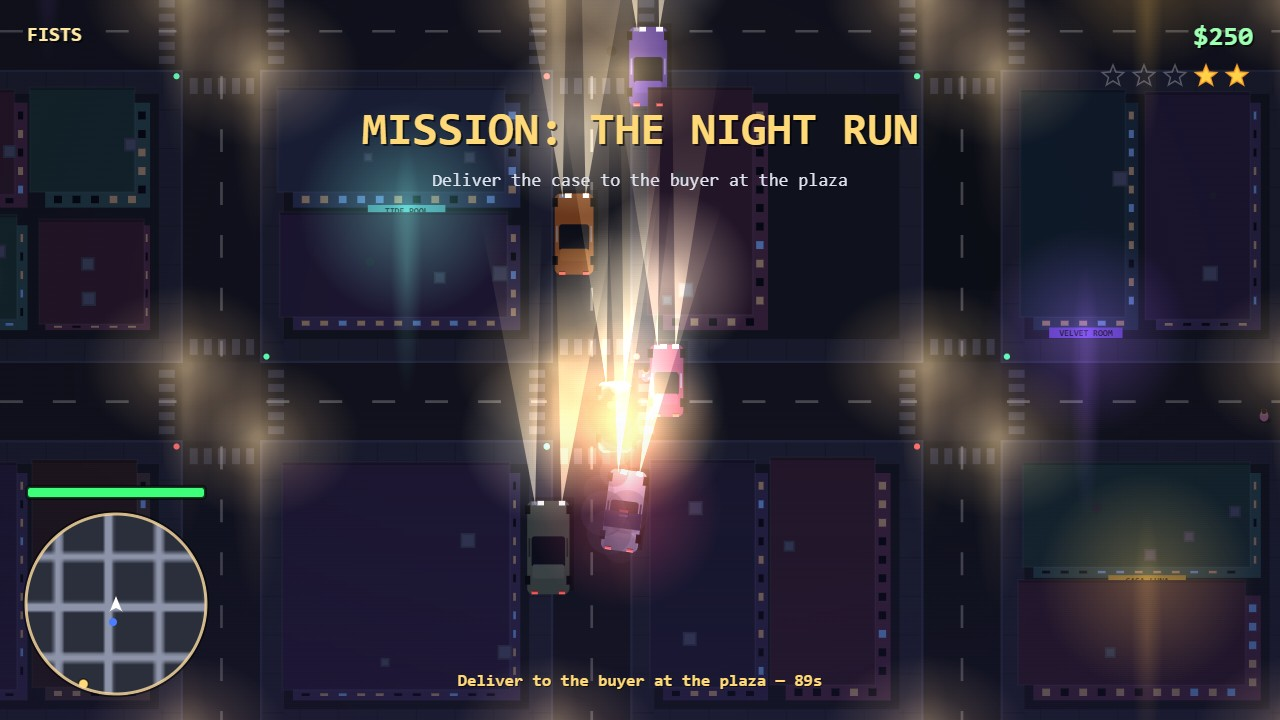
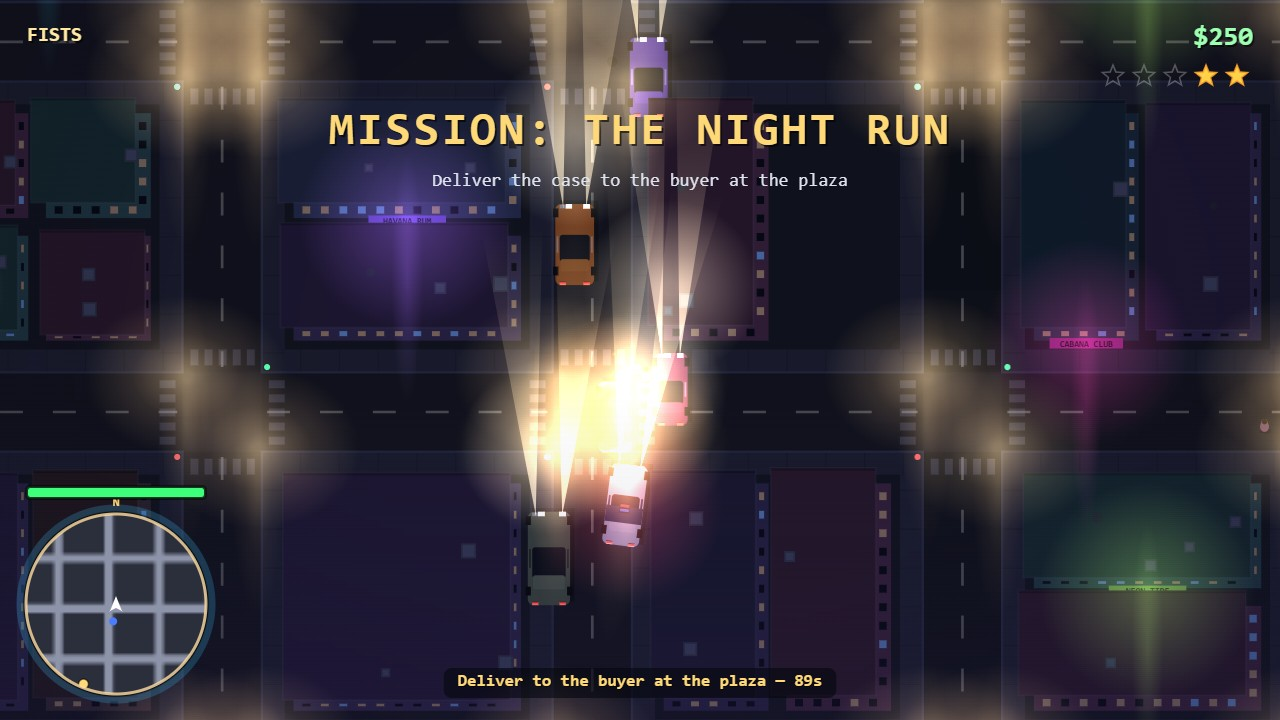
Retake 4 staged screenshots from the improved game, rewrite README for the improvement pass

diff --git a/game/src/shots.js b/game/src/shots.js
@@ -30,24 +30,31 @@ export function stageShot(name, game, ui, seed) {
       if (score > best) { best = score; bestJ = j; }
     }
     const y = (bestJ + 0.5) * PITCH;
-    ui.cameraOverride = { x: GRID * PITCH - 240, y: y - 60, zoom: 0.85 };
+    ui.cameraOverride = { x: GRID * PITCH + 80, y: y - 30, zoom: 0.78 };
     game.player.x = GRID * PITCH - 100;
     game.player.y = y + 120;
-    // Parked cars along the oceanfront road and a little traffic on the strip.
+    // Parked shoulder cars along the oceanfront road.
     for (let k = 0; k < 5; k++) {
       const v = game.spawnCar(Math.floor(rand() * 10), GRID * PITCH - (rand() < 0.5 ? 24 : -24), y - 420 + k * 210, rand() < 0.5 ? 0 : Math.PI);
       v.role = 'parked';
     }
-    for (let k = 0; k < 4; k++) {
-      const v = game.spawnCar(Math.floor(rand() * 10), GRID * PITCH - 68, y + 300 + k * 260, -Math.PI / 2);
+    // Proper lanes: two-way traffic rolling the strip, headlights burning.
+    for (let k = 0; k < 3; k++) {
+      const v = game.spawnCar(Math.floor(rand() * 10), GRID * PITCH + 22, y - 760 + k * 480, Math.PI / 2);
       v.role = 'traffic';
-      v.axis = 'y'; v.dir = -1; v.lane = GRID * PITCH - 68;
-      v.fwd = 120;
+      v.axis = 'y'; v.dir = 1; v.lane = GRID * PITCH + 22;
+      v.fwd = 130;
+    }
+    for (let k = 0; k < 3; k++) {
+      const v = game.spawnCar(Math.floor(rand() * 10), GRID * PITCH - 22, y + 240 + k * 480, -Math.PI / 2);
+      v.role = 'traffic';
+      v.axis = 'y'; v.dir = -1; v.lane = GRID * PITCH - 22;
+      v.fwd = 130;
     }
     // A patrol cruiser rolls the strip far from the camera, sirens quiet.
-    const cop = game.spawnCar(-1, GRID * PITCH - 68, y - 900, Math.PI / 2);
+    const cop = game.spawnCar(-1, GRID * PITCH + 22, y - 1400, Math.PI / 2);
     cop.role = 'traffic';
-    cop.axis = 'y'; cop.dir = 1; cop.lane = GRID * PITCH - 68; cop.cruise = 150; cop.fwd = 150;
+    cop.axis = 'y'; cop.dir = 1; cop.lane = GRID * PITCH + 22; cop.cruise = 150; cop.fwd = 150;
     // A few strollers share the sidewalk with the hero.
     for (let n = 0; n < 6; n++) {
       game.people.push(new Person(GRID * PITCH - 90 + (n % 2) * 40, y + 40 + n * 90, n * 31 + 5));
@@ -150,5 +157,10 @@ function chaosScene(game, ui) {
   for (let n = 0; n < 50; n++) game.update(1 / 60, SCRIPT);
   for (let n = 0; n < 5; n++) game.fx.fire(vans[0].x + (rand() - 0.5) * 30, vans[0].y + (rand() - 0.5) * 30, 3);
   game.fx.blast(cx - 90, cy - 110);
+  // Rico just fired on the van: a hot muzzle beat and a blast wash that the frozen
+  // frame keeps at full strength, since no further update runs to decay them.
+  game.fx.muzzle(game.player.x + Math.cos(game.player.heading) * 16, game.player.y + Math.sin(game.player.heading) * 16, game.player.heading);
+  game.fx.sparks(game.player.x + Math.cos(game.player.heading) * 60, game.player.y + Math.sin(game.player.heading) * 60, 6);
+  game.flash = 0.4;
   ui.freeze = true;
 }

diff --git a/game/src/config.js b/game/src/config.js
@@ -23,7 +23,7 @@ export const LIGHT = {
   paving: '#2f323d',
   curb: '#4b4f60',
   grass: '#1c3524',
-  sand: '#b2915e',
+  sand: '#c2a468',
   sandWet: '#6f5c40',
   water: '#0d1e31',
   foam: 'rgba(140,190,225,0.20)',

diff --git a/README.md b/README.md
@@ -19,21 +19,28 @@ node serve.ts
 then open http://localhost:8080 in desktop Chrome. Keyboard and mouse: WASD or arrows to walk or
 drive, Shift to sprint, F to enter or steal the nearest car (again to bail out), Space for the
 handbrake on wheels and punches on foot, E or left-click to shoot once a pistol is found, H for
-the horn, Esc to pause. Progress autosaves to localStorage on every mission payout and pause.
+the horn, Esc to pause. Progress autosaves to localStorage on every mission payout and pause;
+the title menu can delete a save (press twice to confirm).
 
 ## Systems
 
 - City: seeded generator — streets with two-way traffic and signals, sidewalk crowds, parks,
-  surface lots, neon signage (blades, marquees, rooftop billboards), beach and ocean.
-- Driving: arcade car physics with grip, handbrake slides, damage states (smoke, fire, blast)
-  and ten stealable models plus the police cruiser.
+  surface lots, neon signage (blades, marquees, rooftop billboards on every tall building),
+  beach and ocean.
+- Driving: arcade car physics with grip, handbrake slides that cook the rear tyres, damage
+  states (smoke, fire, blast) and ten stealable models plus the police cruiser.
 - Traffic: kinematic lane AI — gap keeping, red-light queueing, overtakes with blinkers, turns.
-- Police: five wanted stars (carjack +1, ped hit +1, shooting +2, cop kill +3), pursuit with
-  flanking, window fire at three stars, pit attempts at four, roadblocks, foot officers,
-  and a line-of-sight decay when you slip away.
+- Police: five wanted stars (carjack +1, ped hit +1, shooting +2, cop kill +3). Cruisers spawn
+  biased down the road you are driving, flank from three stars, fire from the window, try pit
+  manoeuvres at four and lock the street with roadblocks; foot officers chase the sidewalks and
+  a cornered player on foot gets BUSTED. Line-of-sight decay lets a clean escape bleed stars.
+- Night lighting: base pass with full-strength emissives, an ambient multiply, and an additive
+  glow pass — lamp pools, headlight cones (dark when parked), wet-asphalt reflections, neon
+  spill, sirens, firelight, and an orange blast flash with camera shake.
 - Missions: six chained story jobs (goto, steal-and-deliver, timed runs, collection, arson,
   a hot finale escape) with markers, fail/retry and cash payouts.
-- HUD: circular minimap, health/armor, money, wanted stars, speedometer, objectives and banners.
+- HUD: circular minimap with a north tick and police blips, health/armor bars, money, wanted
+  stars, weapon readout, speedometer with gear, backed objective plate and mission banners.
 - Sound: everything synthesized live with WebAudio — engine, siren, gunfire, explosions,
   blips and a looping synthwave pad.
 - Deterministic staging: `?shot=start|play|end|chaos&seed=N` builds a seeded scene and freezes
